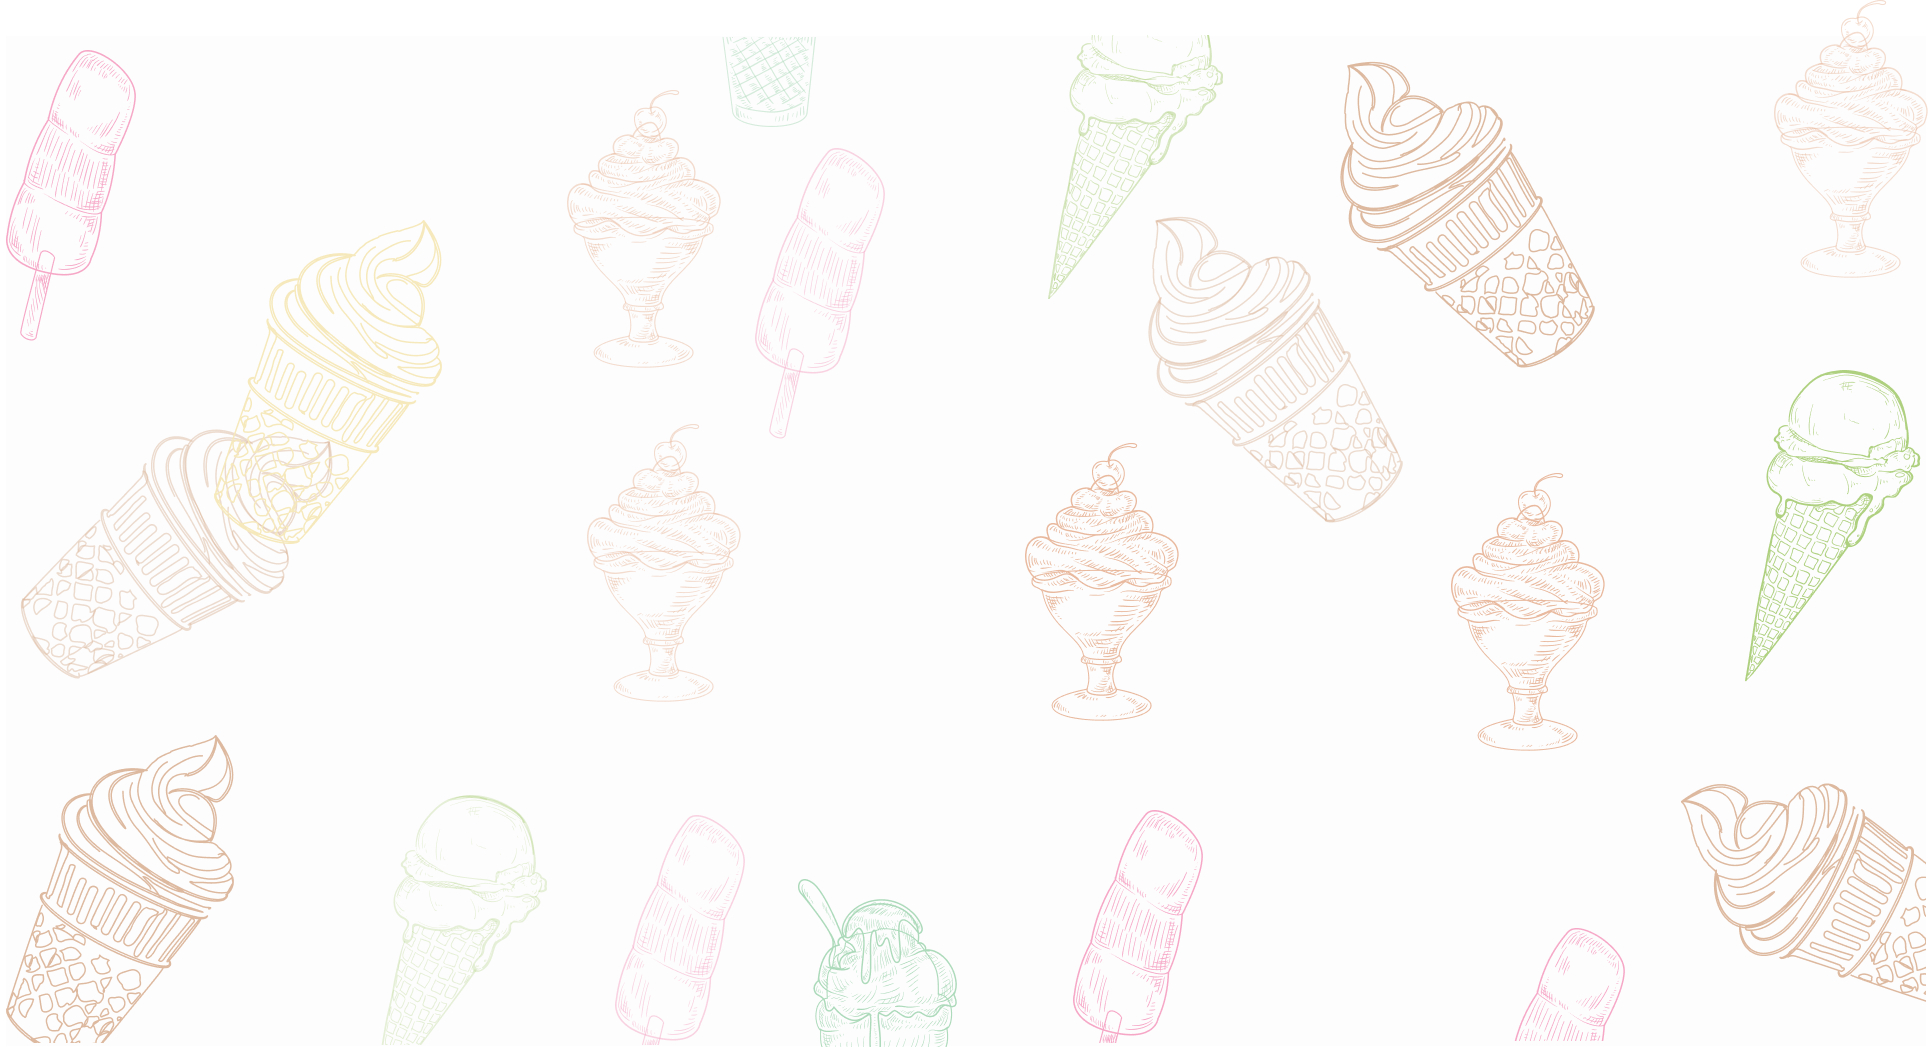
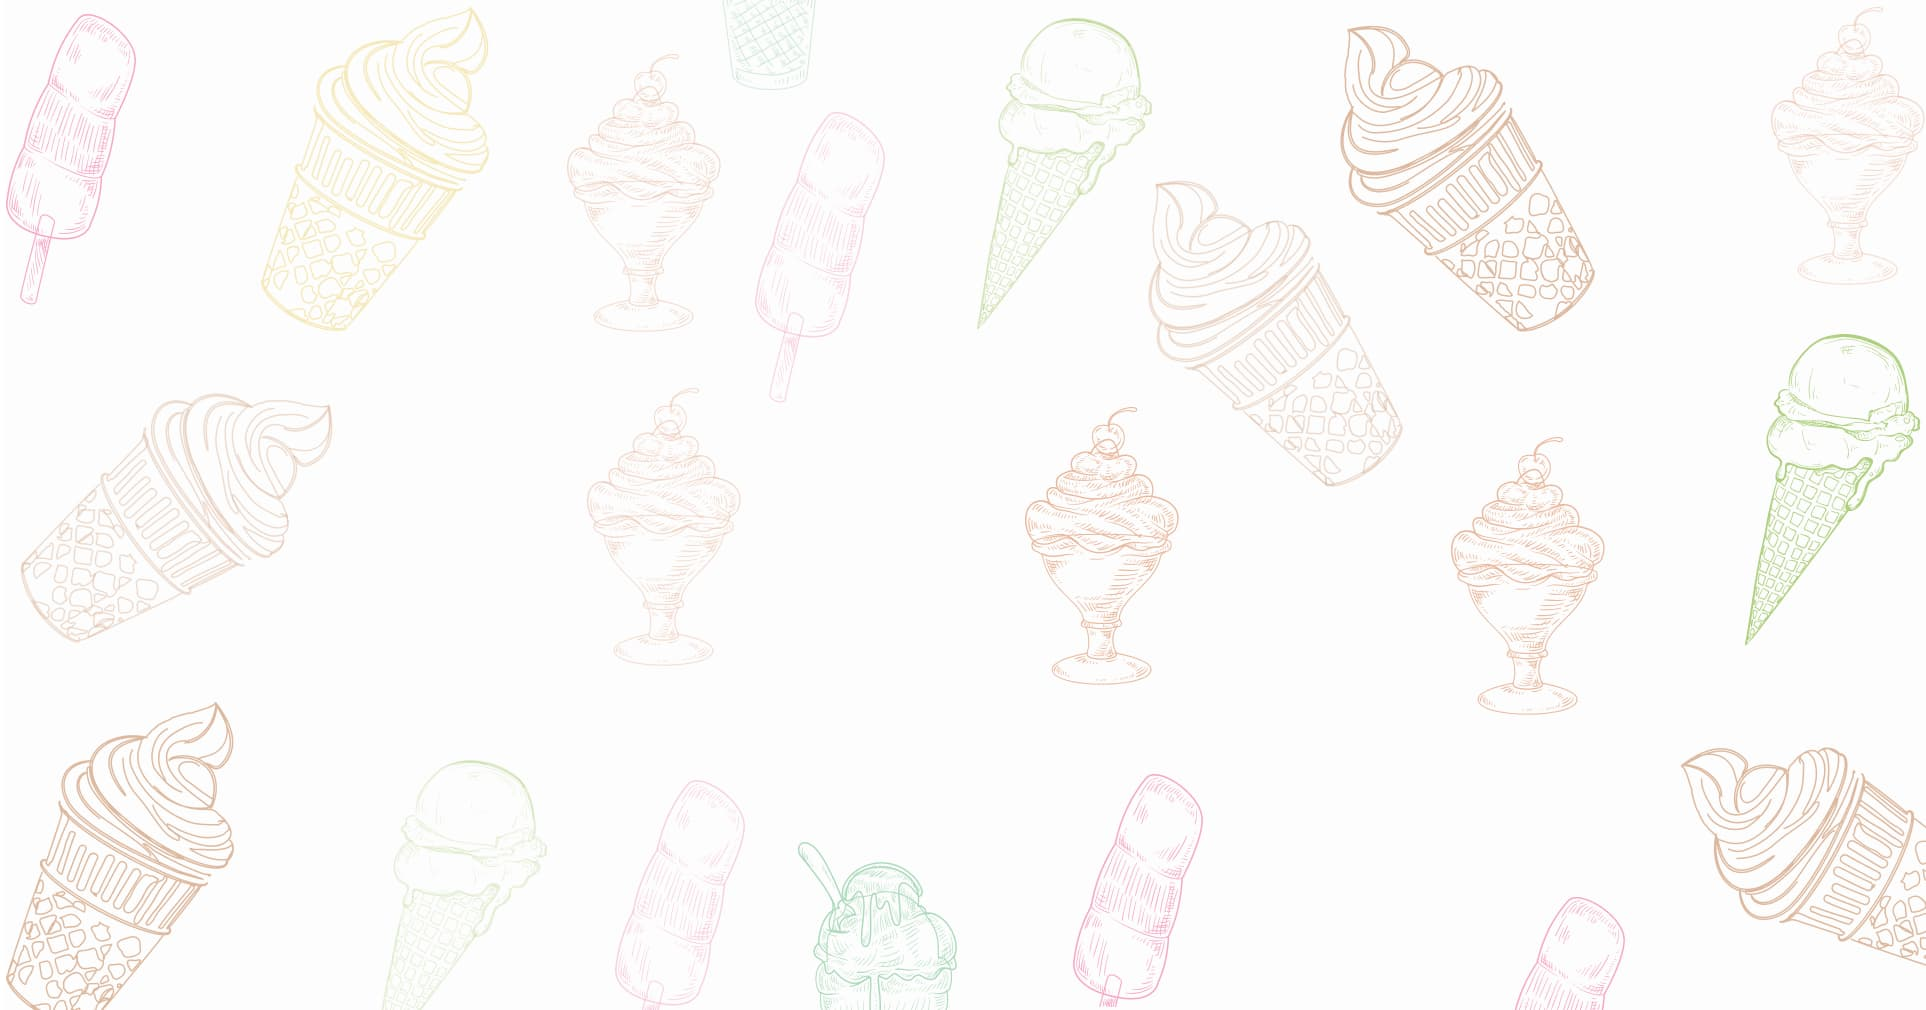
added bg-1920 and fix html/css

diff --git a/src/partials/customer-reviews.html b/src/partials/customer-reviews.html
@@ -1,145 +1,143 @@
 <section class="customer-reviews">
-  <div class="customer-reviews__bg">
-    <div class="customer-reviews__wrapper">
-      <h2 hidden>Customer reviews</h2>
+  <div class="customer-reviews__wrapper">
+    <h2 hidden>Customer reviews</h2>
 
-      <div class="customer-reviews__thumb">
-        <picture>
-          <source
-            srcset="
-              ../src/images/customer-reviews/many-ice-cream.jpg    1x,
-              ../src/images/customer-reviews/many-ice-cream@2x.jpg 2x
-            "
-            media="(min-width: 1200px)"
-          />
-          <source
-            srcset="
-              ../src/images/customer-reviews/many-ice-cream-tablet.jpg    1x,
-              ../src/images/customer-reviews/many-ice-cream-tablet@2x.jpg 2x
-            "
-            media="(min-width: 768px)"
-          />
-          <source
-            srcset="
-              ../src/images/customer-reviews/many-ice-cream-mobile-from480.jpg    1x,
-              ../src/images/customer-reviews/many-ice-cream-mobile-from480@2x.jpg 2x
-            "
-            media="(min-width: 480px)"
-          />
-          <source
-            srcset="
-              ../src/images/customer-reviews/many-ice-cream-mobile.jpg    1x,
-              ../src/images/customer-reviews/many-ice-cream-mobile@2x.jpg 2x
-            "
-            media="(max-width: 479px)"
-          />
-          <img
-            src="../src/images/customer-reviews/many-ice-cream.jpg"
-            alt="a lot of ice cream"
-            class="customer-reviews_img"
-          />
-        </picture>
-      </div>
+    <div class="customer-reviews__thumb">
+      <picture>
+        <source
+          srcset="
+            ../src/images/customer-reviews/many-ice-cream.jpg    1x,
+            ../src/images/customer-reviews/many-ice-cream@2x.jpg 2x
+          "
+          media="(min-width: 1200px)"
+        />
+        <source
+          srcset="
+            ../src/images/customer-reviews/many-ice-cream-tablet.jpg    1x,
+            ../src/images/customer-reviews/many-ice-cream-tablet@2x.jpg 2x
+          "
+          media="(min-width: 768px)"
+        />
+        <source
+          srcset="
+            ../src/images/customer-reviews/many-ice-cream-mobile-from480.jpg    1x,
+            ../src/images/customer-reviews/many-ice-cream-mobile-from480@2x.jpg 2x
+          "
+          media="(min-width: 480px)"
+        />
+        <source
+          srcset="
+            ../src/images/customer-reviews/many-ice-cream-mobile.jpg    1x,
+            ../src/images/customer-reviews/many-ice-cream-mobile@2x.jpg 2x
+          "
+          media="(max-width: 479px)"
+        />
+        <img
+          src="../src/images/customer-reviews/many-ice-cream.jpg"
+          alt="a lot of ice cream"
+          class="customer-reviews_img"
+        />
+      </picture>
+    </div>
 
-      <div class="swiper">
-        <div class="swiper-wrapper">
-          <div class="swiper-slide">
-            <div class="customer-reviews__slide">
-              <div class="customer-reviews__thumb-foto">
-                <img
-                  class="customer-reviews__foto"
-                  srcset="
-                    ../src/images/customer-reviews/reviewer-1.jpg    1x,
-                    ../src/images/customer-reviews/reviewer-1@2x.jpg 2x
-                  "
-                  src="../src/images/customer-reviews/reviewer-1.jpg"
-                  alt="a lot of ice cream"
-                  width="85"
-                  height="85"
-                />
-              </div>
-              <p class="customer-reviews__text">
-                I love visiting your cafe. You prepare the most delicious ice
-                cream in Los Angeles! In addition, you have beautiful serving,
-                cozy atmosphere and polite staff.
-              </p>
-              <p class="customer-reviews__desc">Emily, Los Angeles</p>
+    <div class="swiper">
+      <div class="swiper-wrapper">
+        <div class="swiper-slide">
+          <div class="customer-reviews__slide">
+            <div class="customer-reviews__thumb-foto">
+              <img
+                class="customer-reviews__foto"
+                srcset="
+                  ../src/images/customer-reviews/reviewer-1.jpg    1x,
+                  ../src/images/customer-reviews/reviewer-1@2x.jpg 2x
+                "
+                src="../src/images/customer-reviews/reviewer-1.jpg"
+                alt="a lot of ice cream"
+                width="85"
+                height="85"
+              />
             </div>
-          </div>
-
-          <div class="swiper-slide">
-            <div class="customer-reviews__slide">
-              <div class="customer-reviews__thumb-foto">
-                <img
-                  class="customer-reviews__foto"
-                  srcset="
-                    ../src/images/customer-reviews/reviewer-2.jpg    1x,
-                    ../src/images/customer-reviews/reviewer-2@2x.jpg 2x
-                  "
-                  src="../src/images/customer-reviews/reviewer-2.jpg"
-                  alt="a lot of ice cream"
-                  width="85"
-                  height="85"
-                />
-              </div>
-              <p class="customer-reviews__text">
-                I love eating popsicles on a hot day. Yours is always delicious.
-                I recommend your cafe to everyone I know.
-              </p>
-              <p class="customer-reviews__desc">Sam, Los Angeles</p>
-            </div>
-          </div>
-
-          <div class="swiper-slide">
-            <div class="customer-reviews__slide">
-              <div class="customer-reviews__thumb-foto">
-                <img
-                  class="customer-reviews__foto"
-                  srcset="
-                    ../src/images/customer-reviews/reviewer-3.jpg    1x,
-                    ../src/images/customer-reviews/reviewer-3@2x.jpg 2x
-                  "
-                  src="../src/images/customer-reviews/reviewer-3.jpg"
-                  alt="a lot of ice cream"
-                  width="85"
-                  height="85"
-                />
-              </div>
-              <p class="customer-reviews__text">
-                Ice cream is my passion! I love your chocolate hazelnut ice
-                cream! And I really like the excellent service - always served
-                politely and quickly!
-              </p>
-              <p class="customer-reviews__desc">Diana, Chicago</p>
-            </div>
-          </div>
-
-          <div class="swiper-slide">
-            <div class="customer-reviews__slide">
-              <div class="customer-reviews__thumb-foto">
-                <img
-                  class="customer-reviews__foto"
-                  srcset="
-                    ../src/images/customer-reviews/reviewer-4.jpg    1x,
-                    ../src/images/customer-reviews/reviewer-4@2x.jpg 2x
-                  "
-                  src="../src/images/customer-reviews/reviewer-4.jpg"
-                  alt="a lot of ice cream"
-                  width="85"
-                  height="85"
-                />
-              </div>
-              <p class="customer-reviews__text">
-                Every day we come to you with friends after classes in college.
-                We love your ice cream and casual atmosphere!
-              </p>
-              <p class="customer-reviews__desc">Bryan, New-York</p>
-            </div>
+            <p class="customer-reviews__text">
+              I love visiting your cafe. You prepare the most delicious ice
+              cream in Los Angeles! In addition, you have beautiful serving,
+              cozy atmosphere and polite staff.
+            </p>
+            <p class="customer-reviews__desc">Emily, Los Angeles</p>
           </div>
         </div>
 
-        <div class="swiper-pagination"></div>
+        <div class="swiper-slide">
+          <div class="customer-reviews__slide">
+            <div class="customer-reviews__thumb-foto">
+              <img
+                class="customer-reviews__foto"
+                srcset="
+                  ../src/images/customer-reviews/reviewer-2.jpg    1x,
+                  ../src/images/customer-reviews/reviewer-2@2x.jpg 2x
+                "
+                src="../src/images/customer-reviews/reviewer-2.jpg"
+                alt="a lot of ice cream"
+                width="85"
+                height="85"
+              />
+            </div>
+            <p class="customer-reviews__text">
+              I love eating popsicles on a hot day. Yours is always delicious. I
+              recommend your cafe to everyone I know.
+            </p>
+            <p class="customer-reviews__desc">Sam, Los Angeles</p>
+          </div>
+        </div>
+
+        <div class="swiper-slide">
+          <div class="customer-reviews__slide">
+            <div class="customer-reviews__thumb-foto">
+              <img
+                class="customer-reviews__foto"
+                srcset="
+                  ../src/images/customer-reviews/reviewer-3.jpg    1x,
+                  ../src/images/customer-reviews/reviewer-3@2x.jpg 2x
+                "
+                src="../src/images/customer-reviews/reviewer-3.jpg"
+                alt="a lot of ice cream"
+                width="85"
+                height="85"
+              />
+            </div>
+            <p class="customer-reviews__text">
+              Ice cream is my passion! I love your chocolate hazelnut ice cream!
+              And I really like the excellent service - always served politely
+              and quickly!
+            </p>
+            <p class="customer-reviews__desc">Diana, Chicago</p>
+          </div>
+        </div>
+
+        <div class="swiper-slide">
+          <div class="customer-reviews__slide">
+            <div class="customer-reviews__thumb-foto">
+              <img
+                class="customer-reviews__foto"
+                srcset="
+                  ../src/images/customer-reviews/reviewer-4.jpg    1x,
+                  ../src/images/customer-reviews/reviewer-4@2x.jpg 2x
+                "
+                src="../src/images/customer-reviews/reviewer-4.jpg"
+                alt="a lot of ice cream"
+                width="85"
+                height="85"
+              />
+            </div>
+            <p class="customer-reviews__text">
+              Every day we come to you with friends after classes in college. We
+              love your ice cream and casual atmosphere!
+            </p>
+            <p class="customer-reviews__desc">Bryan, New-York</p>
+          </div>
+        </div>
       </div>
+
+      <div class="swiper-pagination"></div>
     </div>
   </div>
 </section>

diff --git a/src/sass/page/_customer-reviews.scss b/src/sass/page/_customer-reviews.scss
@@ -3,10 +3,6 @@
 @import '../../node_modules/swiper/swiper-bundle.min.css';
 
 .customer-reviews {
-  background-color: rgba(132, 161, 120, 1);
-}
-
-.customer-reviews__bg {
   background-position: center;
   background-size: cover;
   background-repeat: no-repeat;
@@ -92,7 +88,7 @@
 }
 
 @media screen and (min-width: 480px) {
-  .customer-reviews__bg {
+  .customer-reviews {
     background-image: url('/src/images/customer-reviews/reviews-bg-tablet.jpg');
 
     @media screen and (min-device-pixel-ratio: 2),
@@ -120,6 +116,16 @@
 }
 
 @media screen and (min-width: 768px) {
+  .customer-reviews {
+    background-image: url('/src/images/customer-reviews/reviews-bg.jpg');
+
+    @media screen and (min-device-pixel-ratio: 2),
+      screen and (min-resolution: 192dpi),
+      screen and (min-resolution: 2dppx) {
+      background-image: url('/src/images/customer-reviews/reviews-bg@2x.jpg');
+    }
+  }
+
   .customer-reviews__wrapper {
     padding-top: 223px;
     padding-bottom: 374px;
@@ -158,17 +164,13 @@
 }
 
 @media screen and (min-width: 1200px) {
-  .customer-reviews__bg {
-    margin-left: auto;
-    margin-right: auto;
-    max-width: 1200px;
-
-    background-image: url('/src/images/customer-reviews/reviews-bg.jpg');
+  .customer-reviews {
+    background-image: url('/src/images/customer-reviews/reviews-bg-1920.jpg');
 
     @media screen and (min-device-pixel-ratio: 2),
       screen and (min-resolution: 192dpi),
       screen and (min-resolution: 2dppx) {
-      background-image: url('/src/images/customer-reviews/reviews-bg@2x.jpg');
+      background-image: url('/src/images/customer-reviews/reviews-bg-1920@2x.jpg');
     }
   }
 
